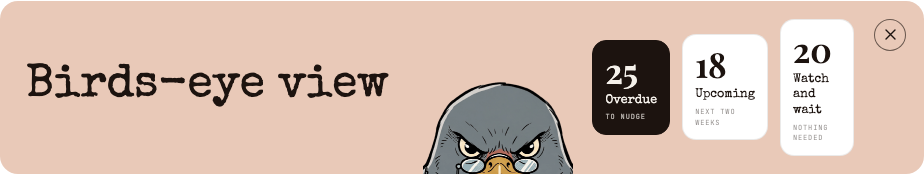
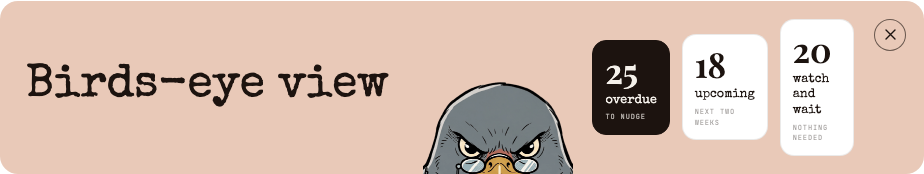
v65.2 — the stat cards' labels, lowercased as the mock renders them.
THE MOCK WINS, AND IT IS THE SHEET THAT OBEYS IT. Its cards read "overdue", "upcoming",
"watch and wait"; ours read them capitalised. The strings come from `ATTENTION_LABEL`, which
is ALSO a group heading and a Filter option, where "overdue" reads as a mistake — so the
string stays sentence case and `.qcv-xp-nm` carries `text-transform: lowercase`.

That is §5's rule from the other end: a sentence-case string can be quietened by a stylesheet,
and a shouting one cannot, which is why `dueCell`'s strings are sentence case and their sheet
uppercases them. One string, two registers, and the one that can be derived is derived.

Found by putting the two headers side by side rather than by any assertion — the comparison
locks the geometry and had nothing to say about the words. The screenshots are refreshed.

Gates: tsc clean, production build clean, 8,370 passed / 3 skipped.
Measured: 5 expanded cases green, and the lock proved red with the declaration removed.

diff --git a/src/components/queries/centre/qcExpanded.test.tsx b/src/components/queries/centre/qcExpanded.test.tsx
@@ -9,6 +9,7 @@ import { describe, it, expect } from "vitest";
 import { existsSync, readFileSync } from "node:fs";
 import { join } from "node:path";
 import { CARDS_PAD, CARD_GAP, COL_GAP, HEAD_GAP, HEAD_W } from "./QcExpanded";
+import { ATTENTION_LABEL } from "../../../lib/qcBirdsEye";
 import { ATTENTION_HINT } from "../../../lib/qcBirdsEye";
 
 const decls = (s: string) => s.replace(/\/\*[\s\S]*?\*\//g, "").replace(/\/\/[^\n]*/g, "");
@@ -223,6 +224,18 @@ describe("§6 · the expanded header", () => {
     expect(css).not.toContain("--qcv-xp-ext");
     expect(css, "the one-block ground outlived the date row it ran into").not.toContain("--qcv-xp-lcol");
   });
+
+  /**
+   * ⚠ THE CARD LABELS ARE LOWERCASED BY THE SHEET, NOT BY THE STRING. The mock types them in lower
+   * case; `ATTENTION_LABEL` is also a group heading and a Filter option, where "overdue" reads as a
+   * mistake. A sentence-case string can be quietened by a stylesheet; a shouting one cannot, which
+   * is why the due column's strings go the other way.
+   */
+  it("§6 · the stat cards' labels are lowercased by the sheet, and the string stays sentence case", () => {
+    expect(rule(".qcv-xp-nm")).toMatch(/text-transform:\s*lowercase/);
+    expect(ATTENTION_LABEL.overdue, "the string is read by the group headings and the Filter too").toBe("Overdue");
+  });
+
 });
 
 describe("§8.2 · the title and the stat cards", () => {

diff --git a/src/components/queries/centre/qcvExpanded.css b/src/components/queries/centre/qcvExpanded.css
@@ -124,7 +124,11 @@
 .qcv-xp-n { display: block; font-family: var(--qcv-serif); font-weight: 600; font-size: 34px; line-height: 1; color: var(--qcv-ink); }
 /* ⚠ THE NAME AND THE HINT MAY WRAP (§8.2) — at 1280 the cards are 87px wide and "Watch and wait"
    does not fit on one line. A `nowrap` here would make the card a horizontal scrollbar. */
-.qcv-xp-nm { display: block; margin-top: 6px; font-family: var(--qcv-type); font-size: 12.5px; line-height: 1.25; color: var(--qcv-ink); }
+/* ⚠ LOWERCASED BY THE SHEET, NOT BY THE STRING. The mock types these labels in lower case on the
+   cards; `ATTENTION_LABEL` is also a GROUP HEADING and a Filter option, where "overdue" would read
+   as a mistake. A sentence-case string can be quietened by a stylesheet — which is the same rule
+   §5's due column states from the other end, where a shouting string cannot. */
+.qcv-xp-nm { display: block; margin-top: 6px; font-family: var(--qcv-type); font-size: 12.5px; line-height: 1.25; text-transform: lowercase; color: var(--qcv-ink); }
 .qcv-xp-hint { display: block; margin-top: 4px; font-family: var(--qcv-mono); font-size: 7px; line-height: 1.5; letter-spacing: 0.12em; text-transform: uppercase; color: var(--qcv-ink-45); }
 
 /**
